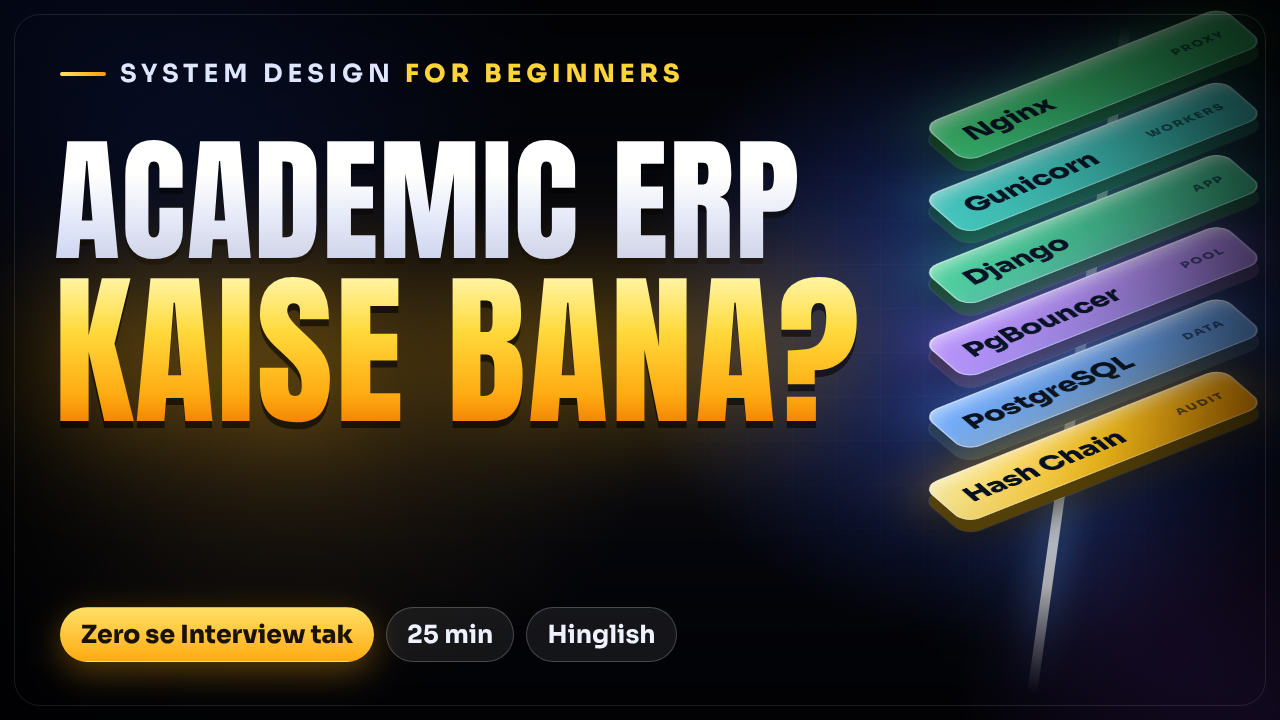
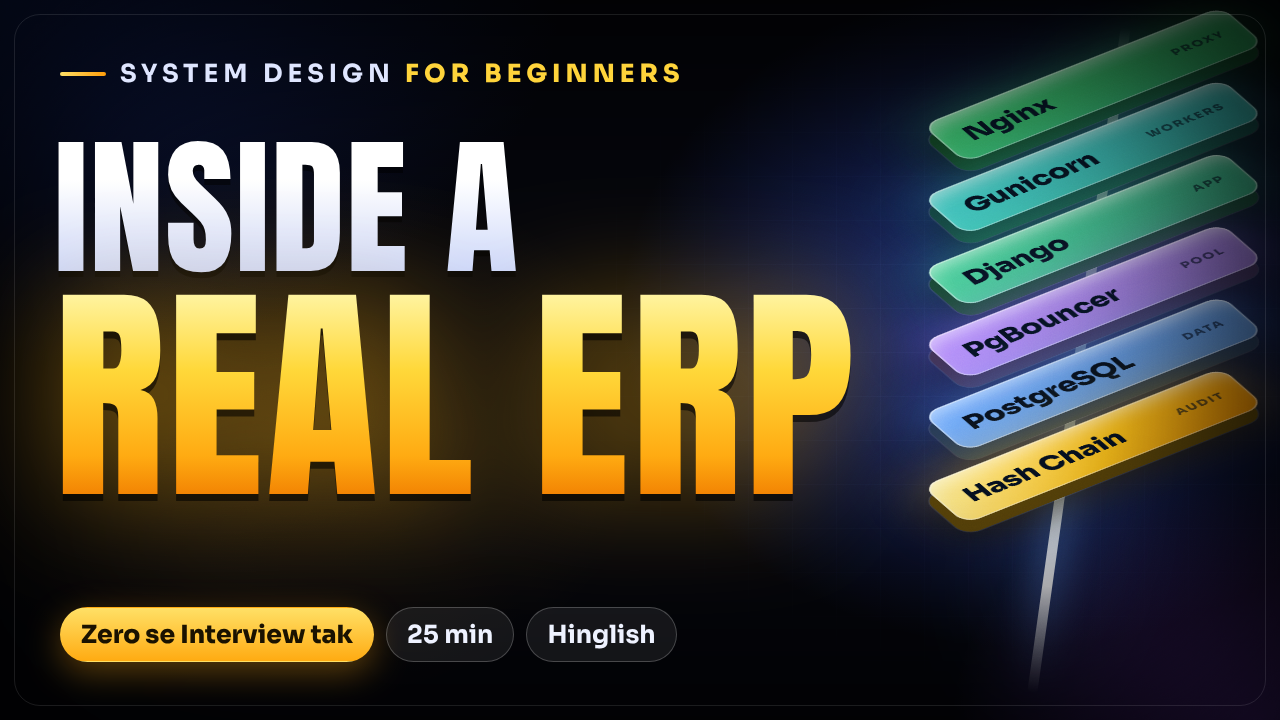
Thumbnail headline options
Claude-Session: https://claude.ai/code/session_0133eXqLsSraEV1dtyTjtboL

Changed region(s): [[0.0312, 0.1833, 0.6875, 0.7333]]

diff --git a/video/build/thumb.html b/video/build/thumb.html
@@ -22,10 +22,10 @@ body { width: 1280px; height: 720px; overflow: hidden; background: #04050b; font
 .eyebrow i { width: 46px; height: 4px; border-radius: 4px; background: linear-gradient(90deg, #ffe066, #ff9d0a); display: block; }
 .eyebrow b { color: #ffd43b; font-weight: 800; }
 h1 { position: absolute; left: 54px; top: 138px; font-family: Anton, sans-serif; font-weight: 400; line-height: .93; text-transform: uppercase; }
-h1 .a { display: block; font-size: 136px; letter-spacing: .008em;
+h1 .a { display: block; font-size: 150px; letter-spacing: .008em;
   background: linear-gradient(180deg, #ffffff 30%, #c9d6ff 100%); -webkit-background-clip: text; background-clip: text; color: transparent;
   filter: drop-shadow(0 6px 0 rgba(0, 0, 0, .5)); }
-h1 .b { display: block; font-size: 166px; letter-spacing: .012em; margin-top: 10px;
+h1 .b { display: block; font-size: 232px; letter-spacing: .012em; margin-top: 10px;
   background: linear-gradient(180deg, #fff6a8 0%, #ffd83a 38%, #ffab12 78%, #f07c00 100%); -webkit-background-clip: text; background-clip: text; color: transparent;
   filter: drop-shadow(0 7px 0 rgba(0, 0, 0, .55)) drop-shadow(0 0 54px rgba(255, 180, 20, .42)); }
 .sub { position: absolute; left: 60px; bottom: 58px; display: flex; gap: 12px; align-items: center; }
@@ -57,5 +57,5 @@ h1 .b { display: block; font-size: 166px; letter-spacing: .012em; margin-top: 10
 <svg class="grain" width="1280" height="720"><filter id="n"><feTurbulence type="fractalNoise" baseFrequency=".9" numOctaves="2" stitchTiles="stitch"/><feColorMatrix values="0 0 0 0 1  0 0 0 0 1  0 0 0 0 1  0 0 0 .55 0"/></filter><rect width="100%" height="100%" filter="url(#n)"/></svg>
 <div class="vig"></div><div class="frame"></div>
 <div class="eyebrow"><i></i><span>SYSTEM DESIGN <b>FOR BEGINNERS</b></span></div>
-<h1><span class="a">Academic ERP</span><span class="b">Kaise Bana?</span></h1>
+<h1><span class="a">Inside a</span><span class="b">Real ERP</span></h1>
 <div class="sub"><span class="g">Zero se Interview tak</span><span>25 min</span><span>Hinglish</span></div>
